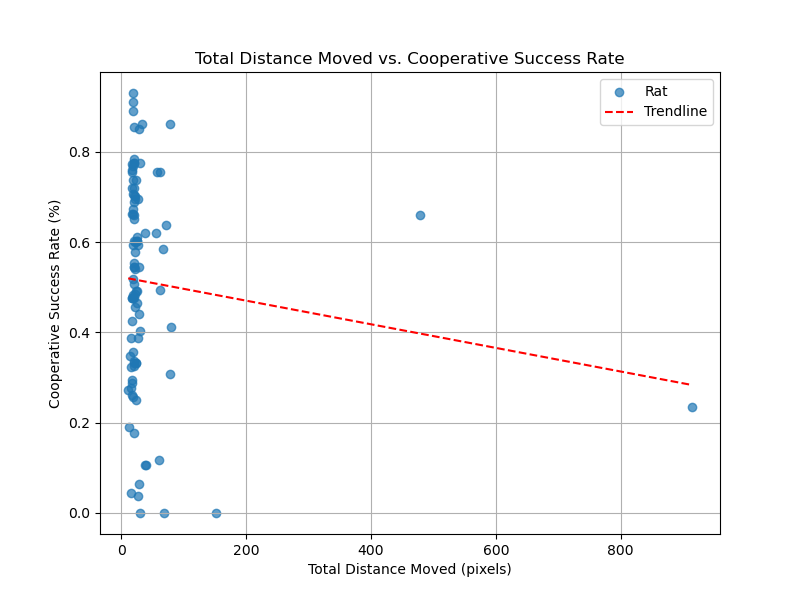
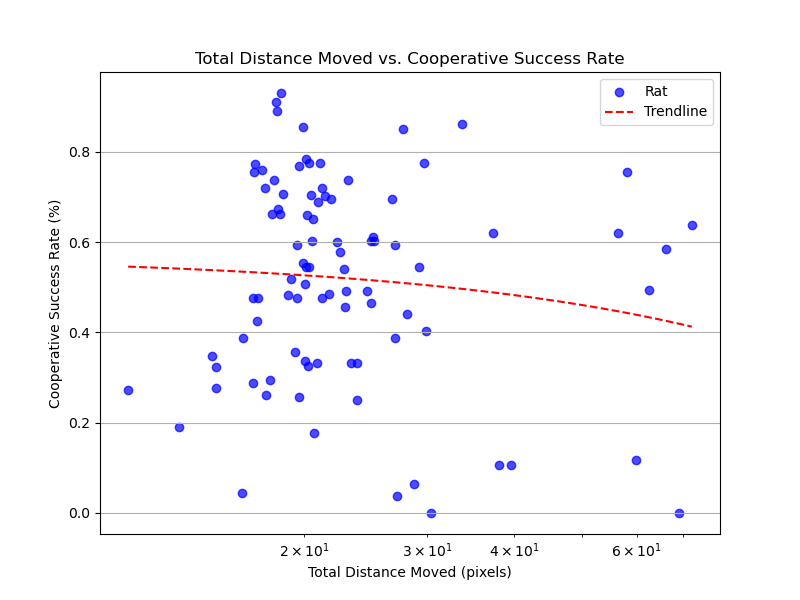
test PT vs TC

diff --git a/David/Behavioral_Quantification/Scripts/graph_creator.py b/David/Behavioral_Quantification/Scripts/graph_creator.py
@@ -575,14 +575,14 @@ posFiles = [["/Users/david/Documents/Research/Saxena_Lab/rat-cooperation/David/B
 #Paired Testing vs. Training Cooperation
 
 #print("Running Paired Testing vs Training Cooperation")
-'''dataPT = getOnlyPairedTesting()
+dataPT = getOnlyPairedTesting()
 dataTC = getOnlyTrainingCoop()
 
 levFiles = [dataPT[0], dataTC[0]]
 magFiles = [dataPT[1], dataTC[1]]
 posFiles = [dataPT[2], dataTC[2]]
 categoryExperiments = multiFileGraphsCategories(magFiles, levFiles, posFiles, ["Paired_Testing", "Training_Cooperation"])
-'''
+
 
 #Unfamiliar vs. Training Partners
 '''print("Running UF vs TP")
@@ -608,13 +608,21 @@ posFiles = [dataTransparent[2], dataTranslucent[2], dataOpaque[2]]
 categoryExperiments = multiFileGraphsCategories(magFiles, levFiles, posFiles, ["Transparent", "Translucent", "Opaque"])
 '''
 
-'''categoryExperiments.compareGazeEventsCategories()
+
+print("0")
+categoryExperiments.compareGazeEventsCategories()
+print("1")
 categoryExperiments.compareSuccesfulTrials()
+print("2")
 categoryExperiments.compareIPI()
+print("3")
 categoryExperiments.rePressingBehavior()
+print("4")
 categoryExperiments.gazeAlignmentAngle()
+print("5")
 categoryExperiments.printSummaryStats()
-'''
+print("Done")
+
 
 
 
@@ -2222,12 +2230,12 @@ def getFiltered():
     return [fe.getLevsDatapath(), fe.getMagsDatapath(), fe.getPosDatapath(), fpsList, totFramesList]
 
 
-arr = getFiltered()
+'''arr = getFiltered()
 lev_files = arr[0]
 mag_files = arr[1]
 pos_files = arr[2]
 fpsList = arr[3]
-totFramesList = arr[4]
+totFramesList = arr[4]'''
 
 '''lev_files = ["/Users/david/Documents/Research/Saxena_Lab/rat-cooperation/David/Behavioral_Quantification/Example_Data_Files/041824_Cam3_TrNum5_Coop_KL007Y-KL007G_lever.csv", "/Users/david/Documents/Research/Saxena_Lab/rat-cooperation/David/Behavioral_Quantification/Example_Data_Files/041824_Cam3_TrNum11_Coop_KL007Y-KL007G_lever.csv", "/Users/david/Documents/Research/Saxena_Lab/rat-cooperation/David/Behavioral_Quantification/Example_Data_Files/041824_Cam3_TrNum5_Coop_KL007Y-KL007G_lever.csv", "/Users/david/Documents/Research/Saxena_Lab/rat-cooperation/David/Behavioral_Quantification/Example_Data_Files/041824_Cam3_TrNum11_Coop_KL007Y-KL007G_lever.csv", "/Users/david/Documents/Research/Saxena_Lab/rat-cooperation/David/Behavioral_Quantification/Example_Data_Files/041824_Cam3_TrNum5_Coop_KL007Y-KL007G_lever.csv", "/Users/david/Documents/Research/Saxena_Lab/rat-cooperation/David/Behavioral_Quantification/Example_Data_Files/041824_Cam3_TrNum11_Coop_KL007Y-KL007G_lever.csv", "/Users/david/Documents/Research/Saxena_Lab/rat-cooperation/David/Behavioral_Quantification/Example_Data_Files/ExampleLevFile.csv"]
 
@@ -2236,7 +2244,7 @@ mag_files = ["/Users/david/Documents/Research/Saxena_Lab/rat-cooperation/David/B
 pos_files = ["/Users/david/Documents/Research/Saxena_Lab/rat-cooperation/David/Behavioral_Quantification/Example_Data_Files/041824_Cam3_TrNum5_Coop_KL007Y-KL007G.predictions.h5", "/Users/david/Documents/Research/Saxena_Lab/rat-cooperation/David/Behavioral_Quantification/Example_Data_Files/041824_Cam3_TrNum11_Coop_KL007Y-KL007G.predictions.h5", "/Users/david/Documents/Research/Saxena_Lab/rat-cooperation/David/Behavioral_Quantification/Example_Data_Files/041824_Cam3_TrNum5_Coop_KL007Y-KL007G.predictions.h5", "/Users/david/Documents/Research/Saxena_Lab/rat-cooperation/David/Behavioral_Quantification/Example_Data_Files/041824_Cam3_TrNum11_Coop_KL007Y-KL007G.predictions.h5", "/Users/david/Documents/Research/Saxena_Lab/rat-cooperation/David/Behavioral_Quantification/Example_Data_Files/041824_Cam3_TrNum5_Coop_KL007Y-KL007G.predictions.h5", "/Users/david/Documents/Research/Saxena_Lab/rat-cooperation/David/Behavioral_Quantification/Example_Data_Files/041824_Cam3_TrNum11_Coop_KL007Y-KL007G.predictions.h5", "/Users/david/Documents/Research/Saxena_Lab/rat-cooperation/David/Behavioral_Quantification/Example_Data_Files/ExampleTrackingCoop.h5"]
 '''
 
-experiment = multiFileGraphs(mag_files, lev_files, pos_files, fpsList, totFramesList, prefix = "filtered_")
+'''experiment = multiFileGraphs(mag_files, lev_files, pos_files, fpsList, totFramesList, prefix = "filtered_")
 #experiment.percentSuccesfulTrials()
 #experiment.interpressIntervalPlot()
 #experiment.quantifyRePressingBehavior()
@@ -2244,7 +2252,7 @@ experiment.crossingOverQuantification()
 #experiment.cooperativeRegionStrategiesQuantification()
 #experiment.compareAverageVelocityGazevsNot()
 #experiment.makeHeatmapLocation()
-experiment.findTotalDistanceMoved()
+experiment.findTotalDistanceMoved()'''
 
 # ---------------------------------------------------------------------------------------------------------
 
